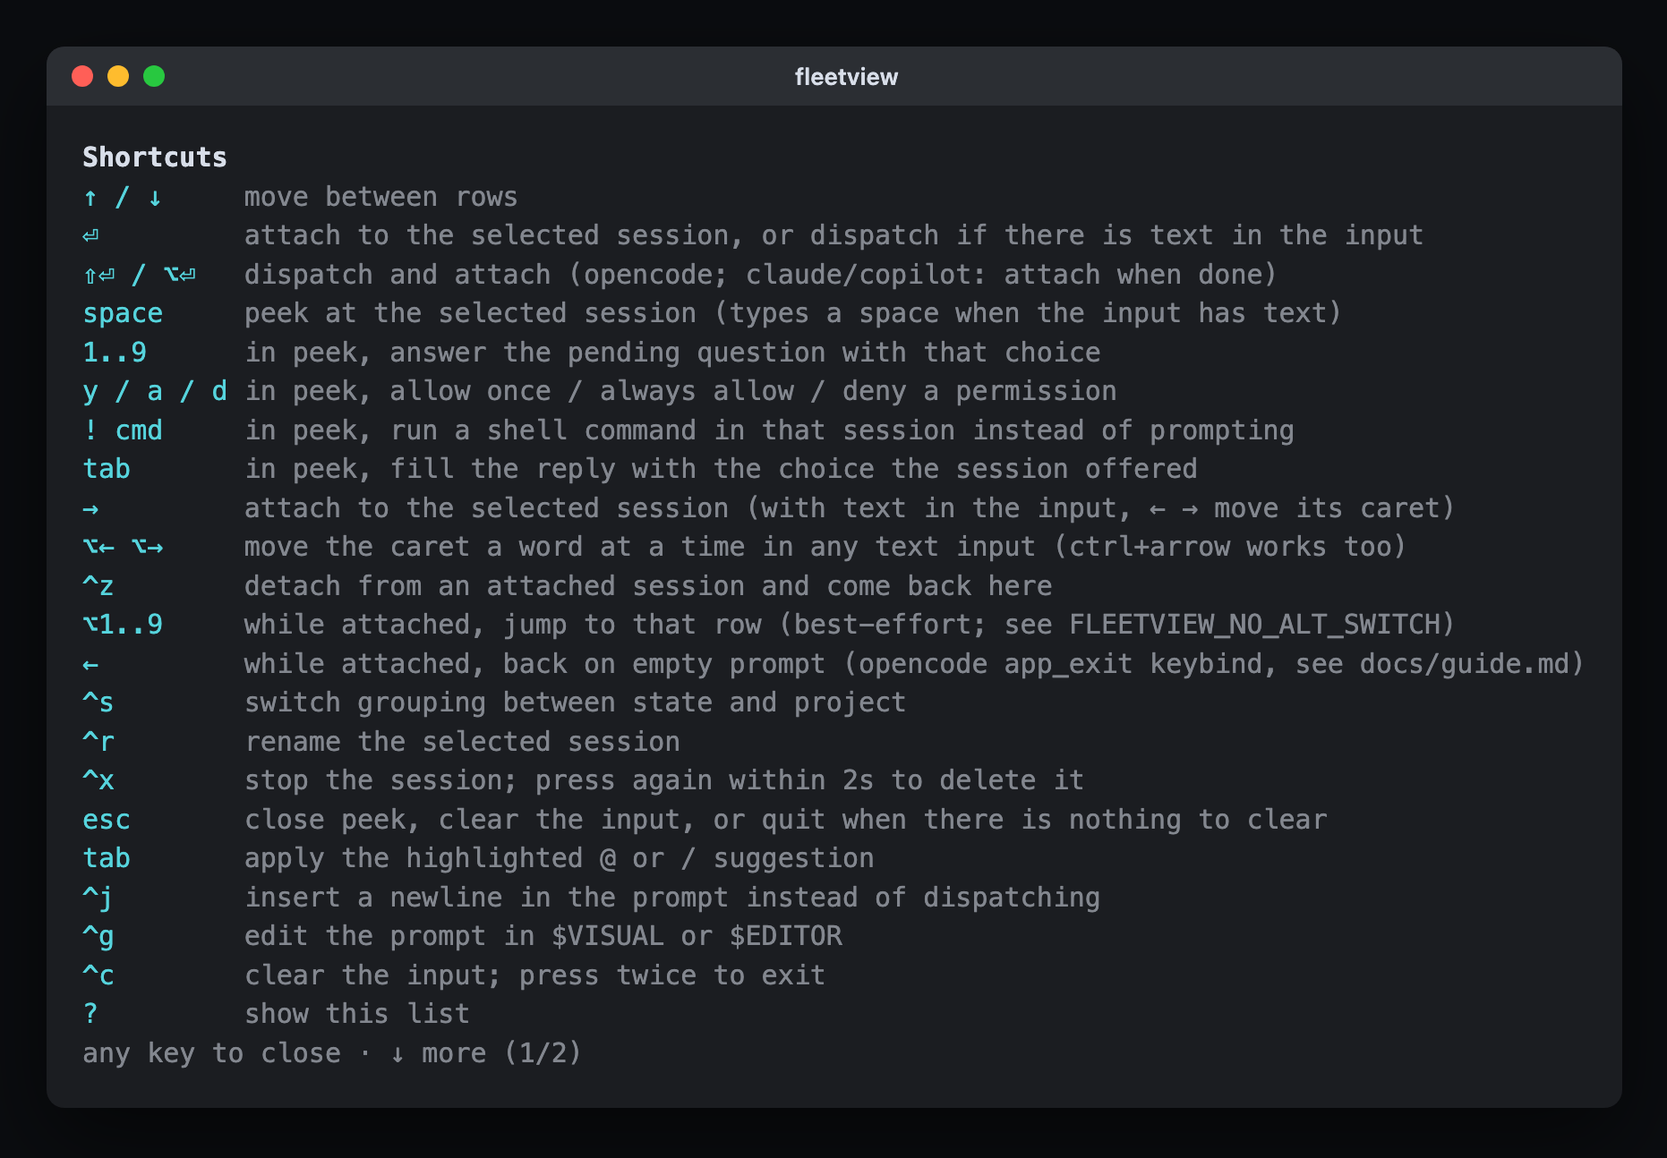
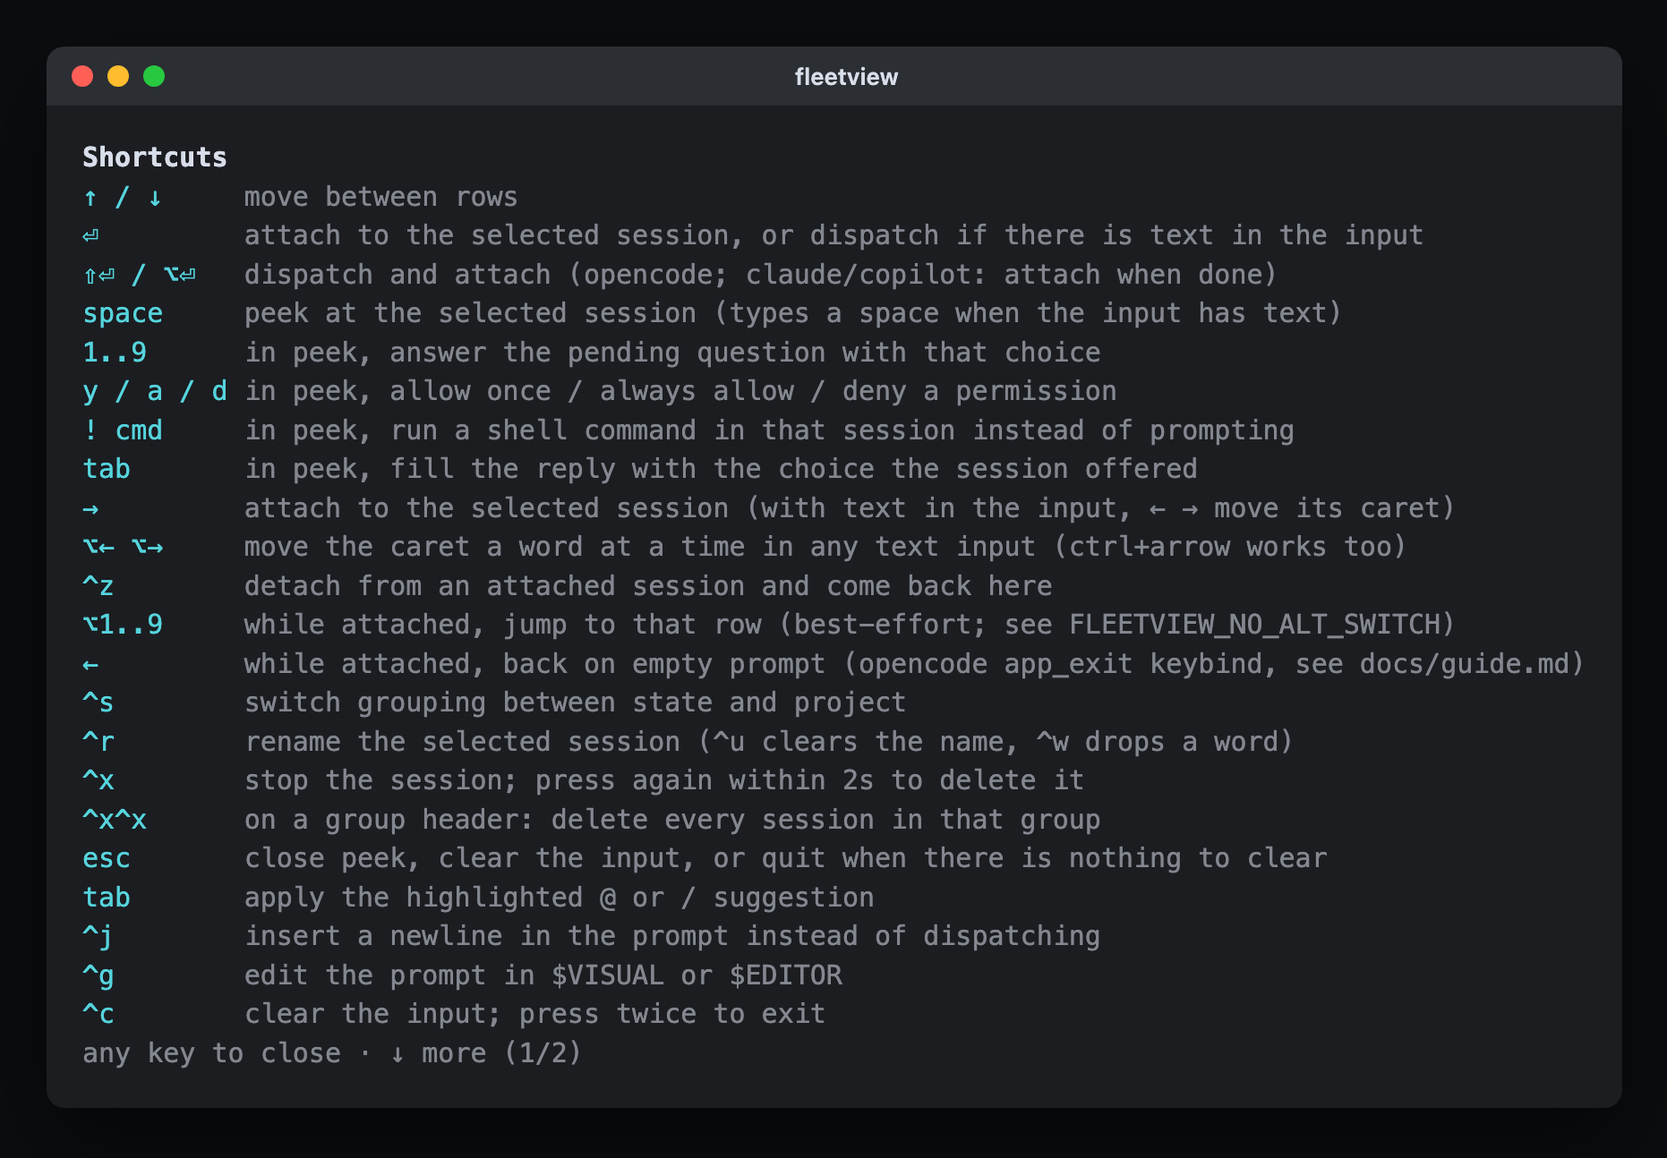
fix: peek, rename, help and merge-back polish (#188) (#195)
* fix: peek, rename and help polish from the 2026-11-19 audit

- Peek renders a user-stopped turn as "stopped" rather than the raw abort
  error (MessageAbortedError on 1.x, aborted on 2.x), matching the roster.
- The ^r rename input gains ^u (clear to start) and ^w (drop a word), since it
  opens prefilled with the current title.
- The ? help says ^x^x on a group header deletes every session in the group.
- An open peek refetches its transcript when the session changes state, so a
  reply to an answer given from peek shows without reopening it.
- The merge-back hint only offers `git merge` when the branch has commits the
  parent HEAD lacks, says "only uncommitted changes" when that is all there
  is, and is memoised instead of running git on every frame.
- README no longer claims fleetview bg dispatches are isolated.

Claude-Session: https://claude.ai/code/session_01GwxvdWNwtGFHjpLvAGShd7

* fix: keep peek transcript on failed refetch, never offer a known no-op merge

A status-triggered refetch that fails no longer replaces a loaded transcript
with "couldn't load messages". mergeBackCommand handles the worktree status
call separately, so a branch known to have nothing to merge never falls back
to the merge command when the worktree can't be read.

Claude-Session: https://claude.ai/code/session_01GwxvdWNwtGFHjpLvAGShd7

* docs: regenerate help preview and shot for the new ^r and ^x^x rows

Claude-Session: https://claude.ai/code/session_01GwxvdWNwtGFHjpLvAGShd7
[…]

diff --git a/test/peek-replies.test.ts b/test/peek-replies.test.ts
@@ -337,3 +337,43 @@ test('the right arrow with a draft in peek moves the caret rather than attaching
   await waitFor(() => onAction.mock.calls.some(([a]: any) => a?.type === 'enter'))
   expect(onAction.mock.calls.find(([a]: any) => a?.type === 'enter')![0].sessionId).toBe('s1')
 })
+
+// #188: peek fetched the transcript once, on open, so the model's response to an answer given from
+// an open peek only appeared after closing and reopening it.
+test('an open peek refetches the transcript when the session changes state', async () => {
+  const deps = makeDeps()
+  const { lastFrame, stdin } = render(React.createElement(App as any, { ...deps, onAction: vi.fn() }))
+  await waitFor(() => lastFrame().includes('fix tests'))
+  await waitFor(() => deps.connectEventsImpl.mock.calls.length > 0)
+  stdin.write(SPACE)
+  await waitFor(() => lastFrame().includes('no messages yet'))
+
+  deps.client.listMessages = vi.fn(() =>
+    Promise.resolve([{ info: { id: 'm1', role: 'assistant' }, parts: [{ type: 'text', text: 'merged it' }] }]),
+  ) as any
+  const onEvent = (deps.connectEventsImpl.mock.calls[0] as any)[1].onEvent
+  onEvent('/x/alpha', { type: 'session.status', properties: { sessionID: 's1', status: { type: 'busy' } } })
+  onEvent('/x/alpha', { type: 'session.status', properties: { sessionID: 's1', status: { type: 'idle' } } })
+  await waitFor(() => lastFrame().includes('merged it'))
+})
+
+test('a refetch that fails keeps the transcript already on screen', async () => {
+  const deps = makeDeps()
+  deps.client.listMessages = vi.fn(() =>
+    Promise.resolve([{ info: { id: 'm1', role: 'assistant' }, parts: [{ type: 'text', text: 'first answer' }] }]),
+  ) as any
+  const { lastFrame, stdin } = render(React.createElement(App as any, { ...deps, onAction: vi.fn() }))
+  await waitFor(() => lastFrame().includes('fix tests'))
+  await waitFor(() => deps.connectEventsImpl.mock.calls.length > 0)
+  stdin.write(SPACE)
+  await waitFor(() => lastFrame().includes('first answer'))
+
+  const failing = vi.fn(() => Promise.reject(new Error('gone')))
+  deps.client.listMessages = failing as any
+  const onEvent = (deps.connectEventsImpl.mock.calls[0] as any)[1].onEvent
+  onEvent('/x/alpha', { type: 'session.status', properties: { sessionID: 's1', status: { type: 'busy' } } })
+  await waitFor(() => failing.mock.calls.length > 0)
+  await tick()
+  expect(lastFrame()).toContain('first answer')
+  expect(lastFrame()).not.toContain("couldn't load messages")
+})

diff --git a/src/app.ts b/src/app.ts
@@ -677,6 +677,19 @@ export function App({
     attached,
   })
 
+  // #113.4: only for a finished session in its own worktree — a session still working has commits
+  // coming, and an unisolated one has nothing to merge back from. #188: mergeBackCommand now asks
+  // git whether there is anything to merge, so it is memoised on what can change the answer rather
+  // than run on every animation frame.
+  const peekStatus = peekTarget ? store.get(peekTarget.projectKey, peekTarget.id)?.status ?? '' : ''
+  const peekParent = peekTarget && isSandbox(parents, peekTarget.projectKey) ? parents.get(peekTarget.projectKey) : undefined
+  const peekMergeBack = useMemo(
+    () => (peekTarget && peekParent && FINISHED_STATUSES.has(peekStatus)
+      ? mergeBackCommand(peekTarget.projectKey, peekParent, branchOfImpl(peekTarget.projectKey))
+      : null),
+    [peekTarget?.projectKey, peekParent, peekStatus],
+  )
+
   // Discovery, streaming and the project poll live in use-discovery.ts — see the header there.
   // The refs declared above (`reconcileRef`, `streamProjectRef`, `activateBackendRef`) are the
   // seam: the hook publishes its entry points through them, and the dispatch/peek paths call
@@ -1027,12 +1040,7 @@ export function App({
           // Scoped to the peek target's own repository: `reasons` is per-repo, and a session must
           // only ever see why ITS repo has no PR data, never why some other repo failed.
           prReason: pullRequests.reasons.get(repoOf(peekTarget.projectKey)) ?? null,
-          // #113.4: only for a finished session in its own worktree — a session still working has
-          // commits coming, and an unisolated one has nothing to merge back from.
-          mergeBack:
-            isSandbox(parents, peekTarget.projectKey) && FINISHED_STATUSES.has(store.get(peekTarget.projectKey, peekTarget.id)?.status ?? '')
-              ? mergeBackCommand(peekTarget.projectKey, parents.get(peekTarget.projectKey), branchOfImpl(peekTarget.projectKey))
-              : null,
+          mergeBack: peekMergeBack,
           // Drives the answer hints only — the banners still render, because "this session is
           // blocked on a permission" is true whether or not fleetview can answer it from here.
           canAnswer: capabilitiesOf(peekTarget).questions,

diff --git a/src/use-peek.ts b/src/use-peek.ts
@@ -81,12 +81,25 @@ export function usePeek({
   const peekReply = peekEdit.text
   const setPeekReply = (text: string) => setPeekEdit(atEnd(text))
 
+  // #188: the transcript is a one-shot fetch, so an answer or reply sent from an open peek never
+  // showed the model's response until peek was reopened. Refetching on every status change
+  // (waiting → running → done) picks it up without a fetch per streamed token.
+  const peekStatus = mode === 'peek' && peekTarget ? store.get(peekTarget.projectKey, peekTarget.id)?.status : undefined
+  // What the last fetch was for: a refetch for the same session keeps the old transcript on screen
+  // instead of flashing `loading…` over it.
+  const fetchedFor = useRef<RosterSession | null>(null)
+
   // Fetch on open/selection-change; the cleanup's `cancelled` flag is the latest-wins guard —
   // a superseded effect instance's resolution can never write over a newer target's state.
   useEffect(() => {
-    if (mode !== 'peek' || !peekTarget) return
+    if (mode !== 'peek' || !peekTarget) {
+      fetchedFor.current = null
+      return
+    }
     let cancelled = false
-    setPeekMessages(null)
+    const refetch = fetchedFor.current === peekTarget
+    if (!refetch) setPeekMessages(null)
+    fetchedFor.current = peekTarget
     // `listMessages` is opencode's GET /session/:id/message. A backend without `messages` keeps its
     // transcript in a file on disk in the CLI's own format, so asking the opencode server about an
     // id it has never heard of would render a fetch failure for a session that is perfectly
@@ -99,9 +112,10 @@ export function usePeek({
     client
       .listMessages(peekTarget.id, peekTarget.projectKey)
       .then((msgs) => { if (!cancelled) setPeekMessages(msgs) })
-      .catch(() => { if (!cancelled) setPeekMessages('error') })
+      // A failed background refetch keeps the transcript already on screen rather than replacing it.
+      .catch(() => { if (!cancelled) setPeekMessages((prev) => (refetch && Array.isArray(prev) ? prev : 'error')) })
     return () => { cancelled = true }
-  }, [mode, peekTarget])
+  }, [mode, peekTarget, peekStatus])
 
   // Space on a roster row opens the panel on it.
   const openPeek = (row: RosterSession) => {

diff --git a/src/worktree.ts b/src/worktree.ts
@@ -263,10 +263,28 @@ export function worktreeSafety(dir: string, parentDir: string | null | undefined
 // in full instead of leaving the user to reconstruct it.
 //
 // Shown, never run: a merge can conflict, the parent checkout may have work in it, and neither is
-// something a keystroke in a roster should decide. Pure so the wording is testable without a
-// repository; the caller supplies the branch lookup.
-export function mergeBackCommand(worktree: string, repo: string | null | undefined, branch: string | null | undefined) {
+// something a keystroke in a roster should decide. The caller supplies the branch lookup.
+//
+// #188: only offered when `git merge` would bring something: commits on the branch that the parent
+// checkout's HEAD lacks. opencode never commits, so a finished session usually has only
+// uncommitted edits (or nothing), and a merge of that branch is a no-op. Uncommitted edits are said
+// as such; no changes at all says nothing. A count git can't produce keeps the command, which is
+// what this showed before the check existed.
+export function mergeBackCommand(worktree: string, repo: string | null | undefined, branch: string | null | undefined, run = execFileSync) {
   if (!repo || !branch || repo === worktree) return null
+  let ahead = NaN
+  try {
+    // Counted in the parent: HEAD there is what `git merge` merges into. --end-of-options keeps a
+    // branch the session named from ever reading as a flag.
+    ahead = Number(git(repo, ['rev-list', '--count', '--end-of-options', `HEAD..${branch}`], run))
+  } catch {} // count unknown: fall through to the command, as before #188
+  if (ahead === 0) {
+    try {
+      return git(worktree, ['status', '--porcelain', '--ignore-submodules=all'], run) ? 'nothing committed yet, only uncommitted changes' : null
+    } catch {
+      return null // nothing to merge is known; an unreadable worktree is no reason to offer a no-op merge
+    }
+  }
   // Both halves are quoted: paths carry spaces, and branch names may legally carry `$`, backticks,
   // `;`, `&`, `|` and quotes (check-ref-format bans only space, ~^:?*[\ and control characters) —
   // and the branch is whatever the session checked out, so this copy-paste line must not trust it.

diff --git a/test/text-cursor.test.ts b/test/text-cursor.test.ts
@@ -1,9 +1,15 @@
-import { describe, test, expect } from 'vitest'
+import React from 'react'
+import { describe, test, expect, vi } from 'vitest'
+import { render } from 'ink-testing-library'
+import { RenameInput } from '../src/ui/rename-input.ts'
+import { tick, waitFor } from './helpers.ts'
 import {
   atEnd,
   backspaceAt,
   deleteForwardAt,
   insertAt,
+  killToStart,
+  killWordBack,
   motionOf,
   move,
   withCaret,
@@ -133,4 +139,28 @@ describe('motionOf', () => {
     expect(motionOf('', key({ ctrl: true }))).toBe(null)
     expect(motionOf('x', key({ meta: true }))).toBe(null)
   })
+})
+
+// #188: rename opens prefilled with the current title, so it needs the readline kills to clear it.
+test('killToStart and killWordBack delete back from the caret, keeping what follows it', () => {
+  expect(killToStart({ text: 'fix the tests', cursor: 7 })).toEqual({ text: ' tests', cursor: 0 })
+  expect(killWordBack(atEnd('fix the tests'))).toEqual({ text: 'fix the ', cursor: 8 })
+  expect(killWordBack({ text: 'fix the  tests', cursor: 9 })).toEqual({ text: 'fix tests', cursor: 4 })
+  expect(killWordBack({ text: 'abc', cursor: 0 })).toEqual({ text: 'abc', cursor: 0 })
+})
+
+test('the rename input clears the prefilled title on ^u and drops a word on ^w', async () => {
+  const onSubmit = vi.fn()
+  const { stdin, lastFrame, unmount } = render(React.createElement(RenameInput, { initial: 'old title', onSubmit, onCancel: vi.fn() }))
+  await tick()
+  stdin.write('\x17') // ^w
+  await waitFor(() => lastFrame()!.includes('Rename: old █'))
+  stdin.write('\x15') // ^u
+  await waitFor(() => lastFrame()!.includes('Rename: █'))
+  stdin.write('new')
+  await tick()
+  stdin.write('\r')
+  await waitFor(() => onSubmit.mock.calls.length > 0)
+  expect(onSubmit).toHaveBeenCalledWith('new')
+  unmount()
 })

diff --git a/docs/images/help.html b/docs/images/help.html
@@ -35,13 +35,13 @@
 <span style="color:#56d4dd">⌥1..9    </span> <span style="color:#83878f">while attached, jump to that row (best-effort; see FLEETVIEW_NO_ALT_SWITCH)</span>
 <span style="color:#56d4dd">←        </span> <span style="color:#83878f">while attached, back on empty prompt (opencode app_exit keybind, see docs/guide.md)</span>
 <span style="color:#56d4dd">^s       </span> <span style="color:#83878f">switch grouping between state and project</span>
-<span style="color:#56d4dd">^r       </span> <span style="color:#83878f">rename the selected session</span>
+<span style="color:#56d4dd">^r       </span> <span style="color:#83878f">rename the selected session (^u clears the name, ^w drops a word)</span>
 <span style="color:#56d4dd">^x       </span> <span style="color:#83878f">stop the session; press again within 2s to delete it</span>
+<span style="color:#56d4dd">^x^x     </span> <span style="color:#83878f">on a group header: delete every session in that group</span>
 <span style="color:#56d4dd">esc      </span> <span style="color:#83878f">close peek, clear the input, or quit when there is nothing to clear</span>
 <span style="color:#56d4dd">tab      </span> <span style="color:#83878f">apply the highlighted @ or / suggestion</span>
 <span style="color:#56d4dd">^j       </span> <span style="color:#83878f">insert a newline in the prompt instead of dispatching</span>
 <span style="color:#56d4dd">^g       </span> <span style="color:#83878f">edit the prompt in $VISUAL or $EDITOR</span>
 <span style="color:#56d4dd">^c       </span> <span style="color:#83878f">clear the input; press twice to exit</span>
-<span style="color:#56d4dd">?        </span> <span style="color:#83878f">show this list</span>
 <span style="color:#83878f">any key to close · ↓ more (1/2)</span></pre>
 </div>

diff --git a/src/ui/peek.ts b/src/ui/peek.ts
@@ -20,6 +20,11 @@ const messageText = (m: OpencodeMessage) => messageBody(m)
 
 const ROLE_LABEL: Record<string, string> = { user: 'you:', assistant: 'opencode:' }
 
+const isAbort = (err: unknown) => {
+  const name = typeof err === 'object' && err !== null ? (err as { name?: unknown }).name : undefined
+  return name === 'MessageAbortedError' || name === 'aborted'
+}
+
 // Hard-wraps `text` to terminal rows: split on '\n', then chop each resulting line into
 // `columns`-wide chunks. Pure + exported so truncation math (F3) is unit-testable without ink.
 // Chunks by grapheme cluster (M5: shared with the snippet/roster truncation helper), not code
@@ -155,9 +160,13 @@ export function Peek({
       // and said nothing about the failure. Emitted whenever the error exists rather than only when
       // the body is empty, so a turn that said something before failing keeps both. errorLabel
       // stripControls it, like every other model-provided string this panel renders (M12).
-      const err = errorLabel(m?.info?.error)
+      // #188: a turn the user stopped carries an abort error (1.x MessageAbortedError, 2.x
+      // `aborted` via v1Error) that the roster already reads as `stopped`; peek says the same.
+      const stopped = isAbort(m?.info?.error)
+      const err = stopped ? null : errorLabel(m?.info?.error)
       const rows: PeekRow[] = [{ text: role ? ROLE_LABEL[role] ?? `${role}:` : 'message:', dim: true }]
-      if (body || !err) rows.push({ text: body })
+      if (body || !(err || stopped)) rows.push({ text: body })
+      if (stopped) rows.push({ text: 'stopped', dim: true })
       if (err) rows.push({ text: `error: ${err}`, color: theme.danger })
       return rows
     })

diff --git a/test/worktree.test.ts b/test/worktree.test.ts
@@ -441,6 +441,29 @@ test('mergeBackCommand yields nothing when there is nothing to merge back', () =
   expect(mergeBackCommand('/x/repo', '/x/repo', 'main')).toBe(null)
 })
 
+// #188: opencode never commits, so `git merge <branch>` after a typical session brings nothing.
+test('mergeBackCommand offers the merge only when the branch has commits the parent lacks', () => {
+  const repo = makeRepo()
+  const wt = createLocalWorktree(repo.dir, 'merge back', dataRoot())
+  const branch = gitOut(wt, 'rev-parse', '--abbrev-ref', 'HEAD')
+  expect(mergeBackCommand(wt, repo.dir, branch)).toBe(null) // no changes at all
+  writeFileSync(join(wt, 'a.txt'), 'edited\n')
+  expect(mergeBackCommand(wt, repo.dir, branch)).toBe('nothing committed yet, only uncommitted changes')
+  execFileSync('git', ['-C', wt, '-c', 'user.email=t@t', '-c', 'user.name=t', 'commit', '-qam', 'work'])
+  expect(mergeBackCommand(wt, repo.dir, branch)).toBe(`git -C '${repo.dir}' merge '${branch}'`)
+})
+
+test('mergeBackCommand never offers a known no-op merge, and keeps the command when it cannot count', () => {
+  const zeroThenFail = ((_cmd: string, args: string[]) => {
+    if (args.includes('config')) return '' // #181's filter-driver lookup: no drivers
+    if (args.includes('rev-list')) return '0\n'
+    throw new Error('worktree gone')
+  }) as any
+  expect(mergeBackCommand('/wt/one', '/x/repo', 'b', zeroThenFail)).toBe(null)
+  const fail = (() => { throw new Error('no git') }) as any
+  expect(mergeBackCommand('/wt/one', '/x/repo', 'b', fail)).toBe("git -C '/x/repo' merge 'b'")
+})
+
 // --- M9: worktrees fleetview makes itself, for claude and copilot ---
 
 const dataRoot = () => {

diff --git a/src/ui/rename-input.ts b/src/ui/rename-input.ts
@@ -1,7 +1,7 @@
 import React, { useState } from 'react'
 import { Text, useInput } from 'ink'
 import { stripEscapeResidue } from '../text-utils.ts'
-import { atEnd, backspaceAt, deleteForwardAt, insertAt, motionOf, move, withCaret, type TextCursor } from '../text-cursor.ts'
+import { atEnd, backspaceAt, deleteForwardAt, insertAt, killToStart, killWordBack, motionOf, move, withCaret, type TextCursor } from '../text-cursor.ts'
 import { parseMouseEvents } from './mouse.ts'
 
 // The ^r rename prompt. App owns what a submitted title does; this only edits it.
@@ -14,7 +14,10 @@ export function RenameInput({ initial, onSubmit, onCancel }: { initial: string; 
     if (parseMouseEvents(input).length) return // mouse sequences are not text
     const motion = motionOf(input, key) // #134: same caret and word motion as the prompt
     if (motion) return setEdit((s) => move(s, motion))
-    if (key.backspace) setEdit(backspaceAt)
+    // #188: the field opens prefilled with the current title, so clearing it has to be one key.
+    if (key.ctrl && input === 'u') setEdit(killToStart)
+    else if (key.ctrl && input === 'w') setEdit(killWordBack)
+    else if (key.backspace) setEdit(backspaceAt)
     else if (key.delete) setEdit(deleteForwardAt)
     else if (input && !key.ctrl && !key.meta) {
       // #112.3: strip control bytes / escape residue the same way the dispatch input does, so a

diff --git a/test/peek.test.ts b/test/peek.test.ts
@@ -113,6 +113,25 @@ test('Peek: a turn that said something before failing keeps both the text and th
   expect(frame).toContain('error: APIError: boom')
 })
 
+// #188: the roster calls a user-stopped session `stopped`; peek must not call it an error.
+test('Peek: a turn the user stopped reads stopped, not error, on both opencode generations', () => {
+  for (const error of [
+    { name: 'MessageAbortedError', data: { message: 'Aborted' } }, // 1.x
+    { name: 'aborted', data: { message: 'Step interrupted' } }, // 2.x after v1Error
+  ]) {
+    const frame = render(
+      React.createElement(Peek, {
+        target: { title: 't', projectKey: '/p' },
+        messages: [{ info: { role: 'assistant', error }, parts: [{ type: 'text', text: 'starting' }] }],
+        columns: 200,
+      }),
+    ).lastFrame()!
+    expect(frame).toContain('starting')
+    expect(frame).toContain('stopped')
+    expect(frame).not.toContain('error:')
+  }
+})
+
 test('Peek: a message with no error renders no error line', () => {
   const frame = render(
     React.createElement(Peek, {

diff --git a/src/ui/help.ts b/src/ui/help.ts
@@ -21,8 +21,10 @@ const SHORTCUTS = [
   ['⌥1..9', 'while attached, jump to that row (best-effort; see FLEETVIEW_NO_ALT_SWITCH)'],
   ['←', 'while attached, back on empty prompt (opencode app_exit keybind, see docs/guide.md)'],
   ['^s', 'switch grouping between state and project'],
-  ['^r', 'rename the selected session'],
+  ['^r', 'rename the selected session (^u clears the name, ^w drops a word)'],
   ['^x', 'stop the session; press again within 2s to delete it'],
+  // #188: ↑ from the first row lands on a group header, and ^x^x there takes the whole group.
+  ['^x^x', 'on a group header: delete every session in that group'],
   ['esc', 'close peek, clear the input, or quit when there is nothing to clear'],
   ['tab', 'apply the highlighted @ or / suggestion'],
   ['^j', 'insert a newline in the prompt instead of dispatching'],

diff --git a/src/text-cursor.ts b/src/text-cursor.ts
@@ -79,6 +79,18 @@ export const deleteForwardAt = (s: TextCursor): TextCursor => {
   return { text: s.text.slice(0, cursor) + s.text.slice(cursor + n), cursor }
 }
 
+// The readline kills: ^u deletes from the start of the line to the caret, ^w the word before it.
+export const killToStart = (s: TextCursor): TextCursor => {
+  const cursor = clamp(s.text, s.cursor)
+  return { text: s.text.slice(cursor), cursor: 0 }
+}
+
+export const killWordBack = (s: TextCursor): TextCursor => {
+  const cursor = clamp(s.text, s.cursor)
+  const start = wordLeft(s.text, cursor)
+  return { text: s.text.slice(0, start) + s.text.slice(cursor), cursor: start }
+}
+
 // A solid block caret, no blink (John's polish pass — the animation earned nothing).
 export const CARET = '█'
 
